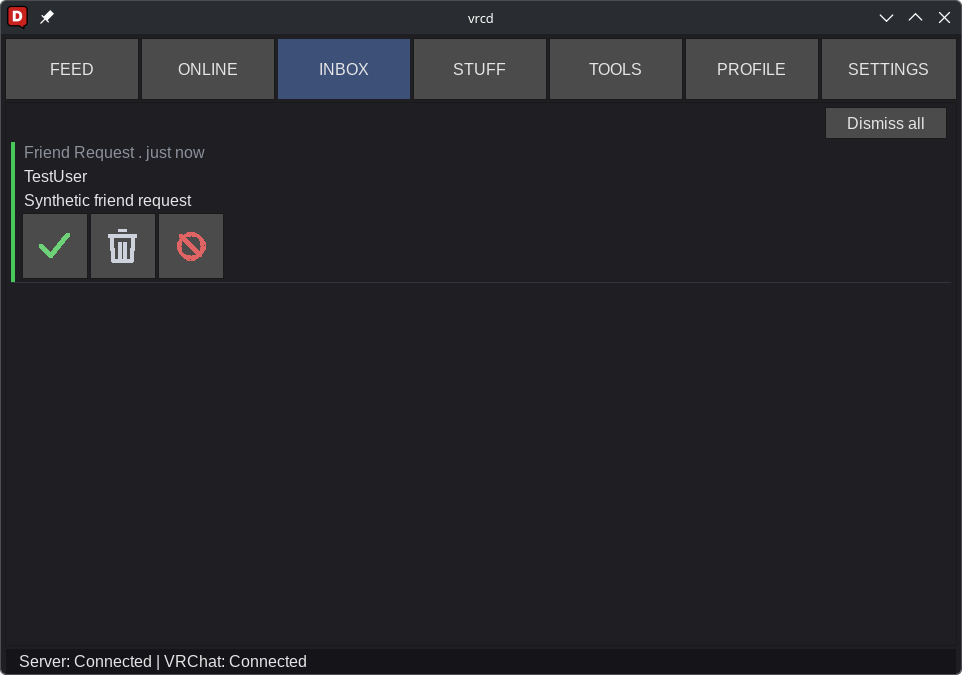
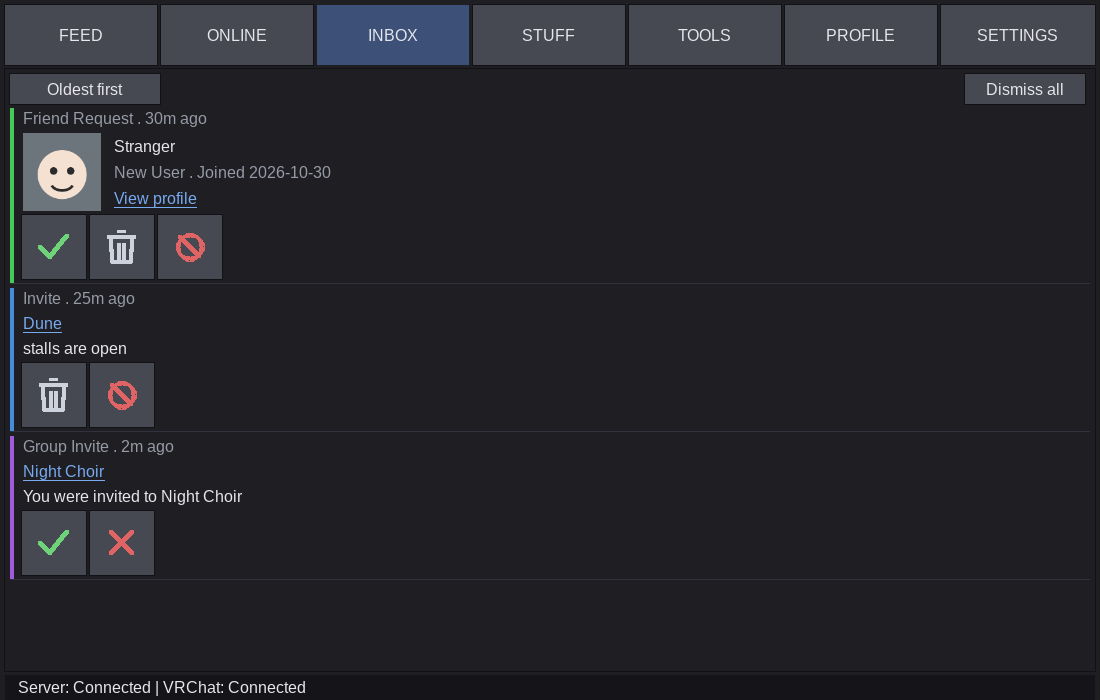
docs: Regenerate README screenshots from the mock scenario, add profile and group

Changed region(s): [[0.0, 0.0, 1.0, 1.0]]

diff --git a/README.md b/README.md
@@ -45,29 +45,39 @@ future:
 
 ## Client Screenshots
 
+Taken from the mock scenario (see [Mocking and Screenshots](#mocking-and-screenshots)).
+
 ### Feed Page
 
 ![Feed with event's date, type, user, and detail columns](packaging/flatpak/screenshots/1-main.png)
 
 ### Online Page
 
-![List of instances (current and capacity) and friends in each of them with color indicators](packaging/flatpak/screenshots/2-online.png)
+![List of instances and friends in each of them with status color indicators](packaging/flatpak/screenshots/2-online.png)
 
 ### Inbox
 
-![Notification inbox](packaging/flatpak/screenshots/3-inbox.png)
+![Notification inbox with a friend request, an invite, and a group invite](packaging/flatpak/screenshots/3-inbox.png)
 
-### Inventory
+### Stuff
 
-![Inventory showing gallery](packaging/flatpak/screenshots/4-stuff.png)
+![Gallery section of the user content page](packaging/flatpak/screenshots/4-stuff.png)
 
 ### Tools
 
-![Tools: screenshot folder, etc.](packaging/flatpak/screenshots/5-tools.png)
+![Tools: friend, mute, block, and group lists, notification rules, picture folders](packaging/flatpak/screenshots/5-tools.png)
 
 ### Profile
 
-![My profile with bio, links, langs](packaging/flatpak/screenshots/6-profile.png)
+![Own profile with bio, languages, and join date](packaging/flatpak/screenshots/6-profile.png)
+
+### Friend Profile
+
+![Friend profile with bio, links, location, and languages](packaging/flatpak/screenshots/7-user.png)
+
+### Group
+
+![Group page with description, rules, links, and membership details](packaging/flatpak/screenshots/8-group.png)
 
 ## Web Screenshots
 
@@ -181,6 +191,11 @@ change something there answers "Read-only in mock".
 tools/screenshots.sh
 # Only some pages, named or not
 tools/screenshots.sh feed inbox=notifications tools:groupList
+# Refresh the README pictures
+tools/screenshots.sh -o packaging/flatpak/screenshots 1-main=feed 2-online=online \
+    3-inbox=notifications 4-stuff=inventory:gallery 5-tools=tools 6-profile=profile \
+    7-user=user:usr_00000000-0000-4000-8000-000000000001 \
+    8-group=group:grp_00000000-0000-4000-8000-0000000000d1
 
 # Click around in a real window, settings are left alone
 client/vrcd_client --mock server/mock/basic.json --log-replay server/mock/basic_log.txt
